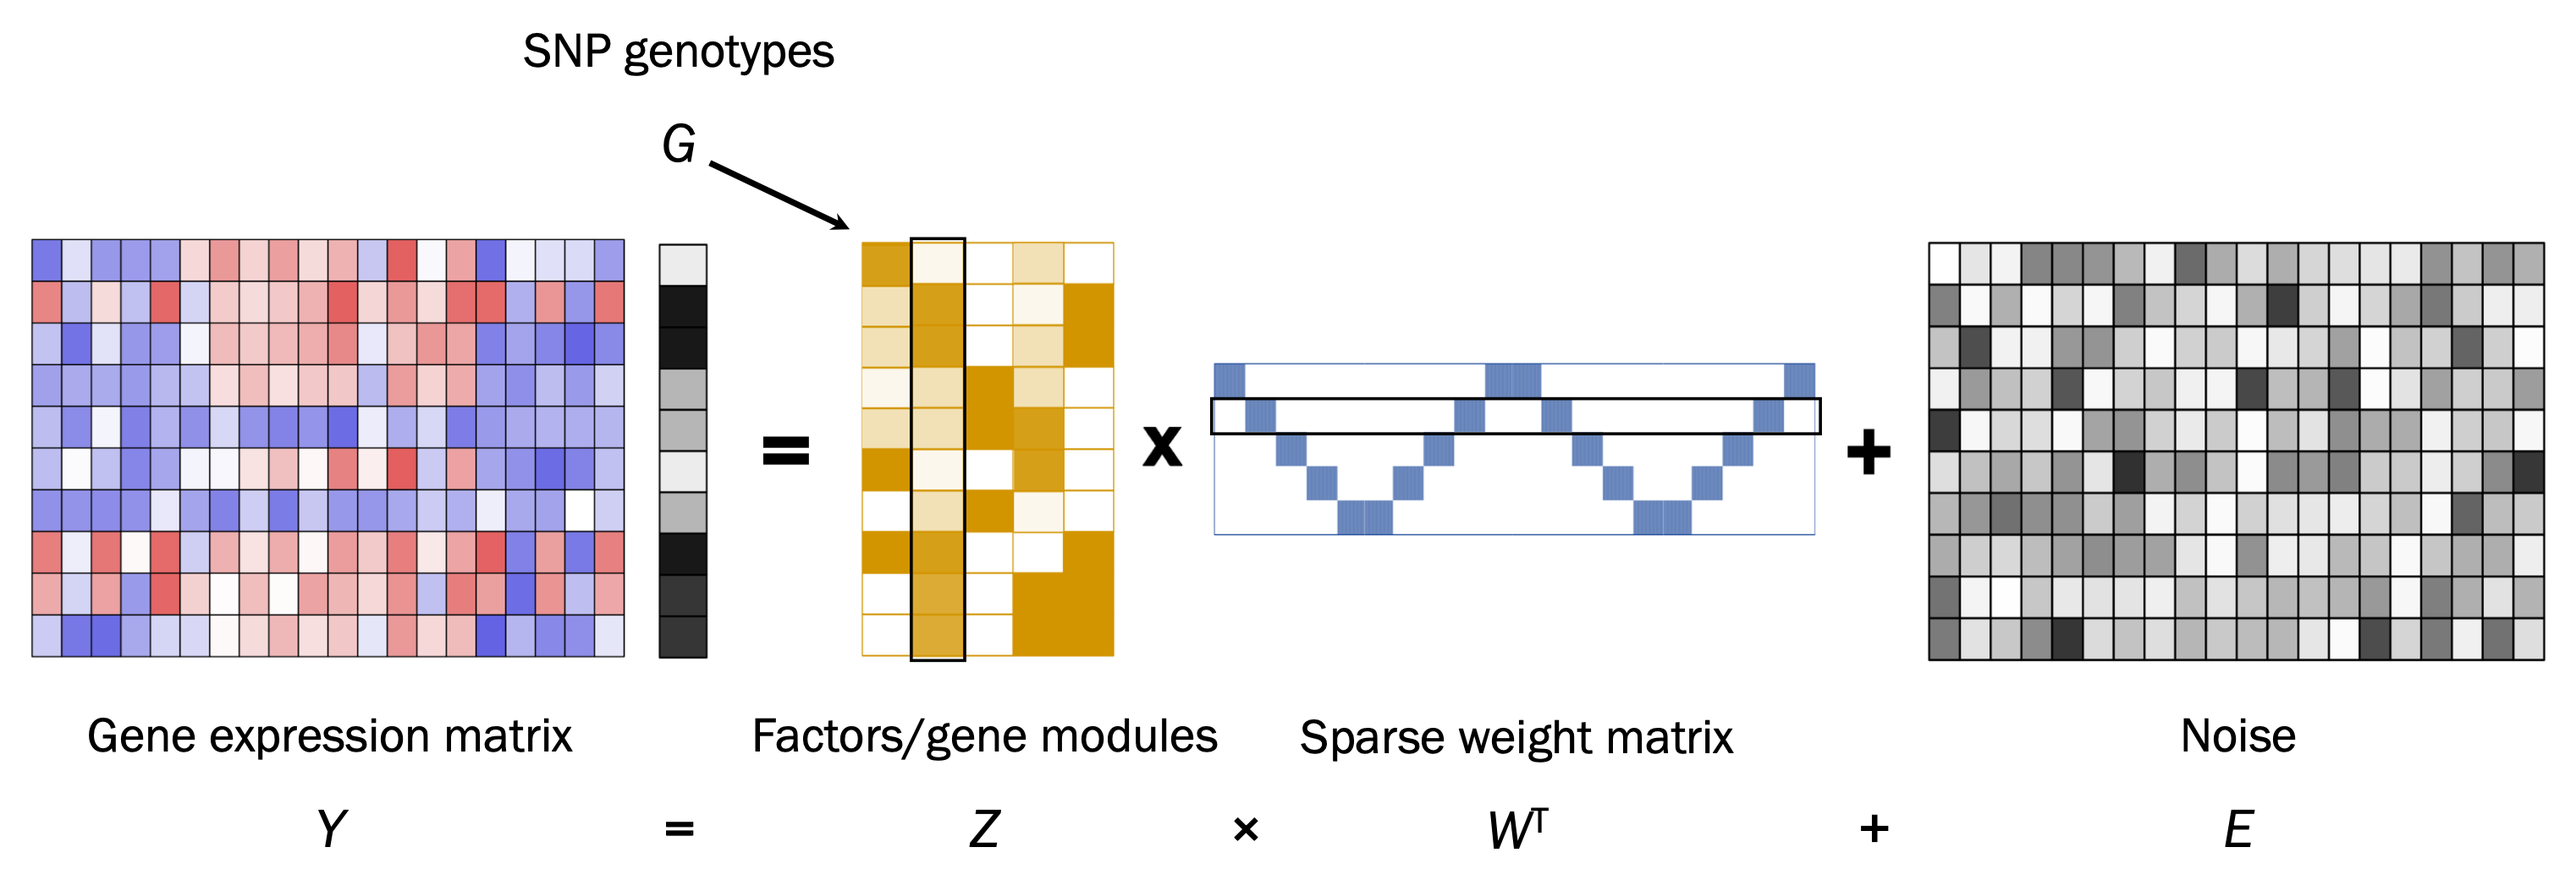
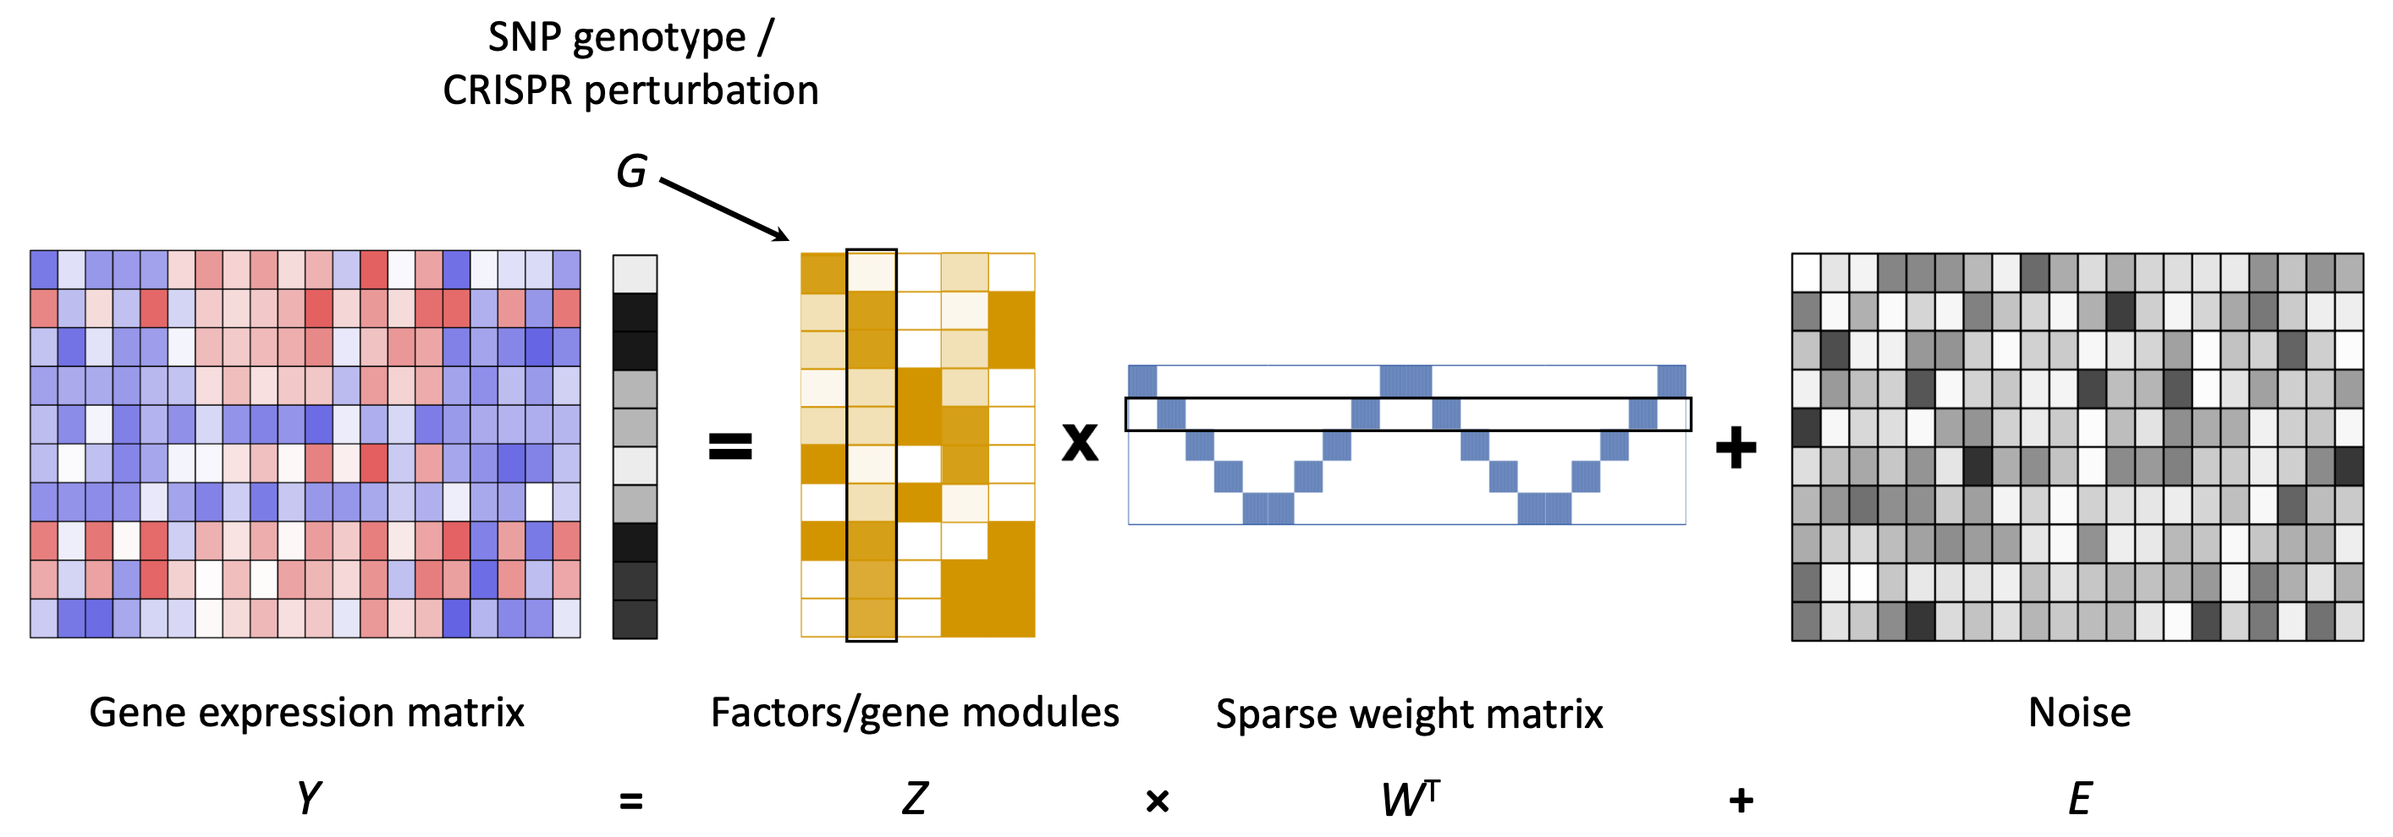
update

diff --git a/docs/index.html b/docs/index.html
@@ -305,7 +305,6 @@ div.tocify {
 <p>We developed GSFA (Guided Sparse Factor Analysis), a factor analysis model that can infer unobserved intermediate factors given observed gene expression levels, with the advantage of inferred factors being sparse and their correlation with given sample-level conditons (<em>e.g.</em> genotype, CRISPR perturbation).</p>
 <div id="gsfa-model" class="section level3">
 <h3>GSFA Model</h3>
-<pre class="r"><code>knitr::include_graphics(&quot;figs/GSFA_model_illustration.png&quot;)</code></pre>
 <p><img src="figs/GSFA_model_illustration.png" width="100%" /></p>
 <p>For a given normalizd gene expression matrix <span class="math inline">\(Y \in \mathbb{R}^{N \times P}\)</span>:</p>
 <p><span class="math inline">\(Y = ZW^T+E\)</span>, where <span class="math inline">\(Z \in \mathbb{R}^{N \times K}\)</span>, <span class="math inline">\(W \in \mathbb{R}^{P \times K}\)</span>, <span class="math inline">\(E_{ij} \sim N(0,\psi_j)\)</span>,</p>
